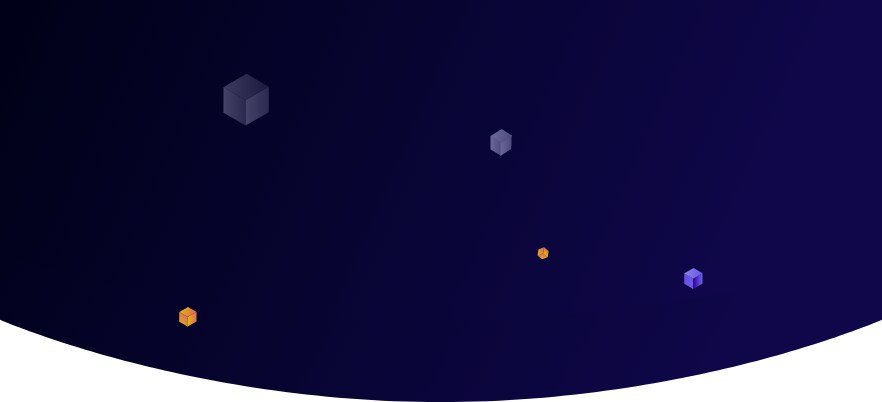
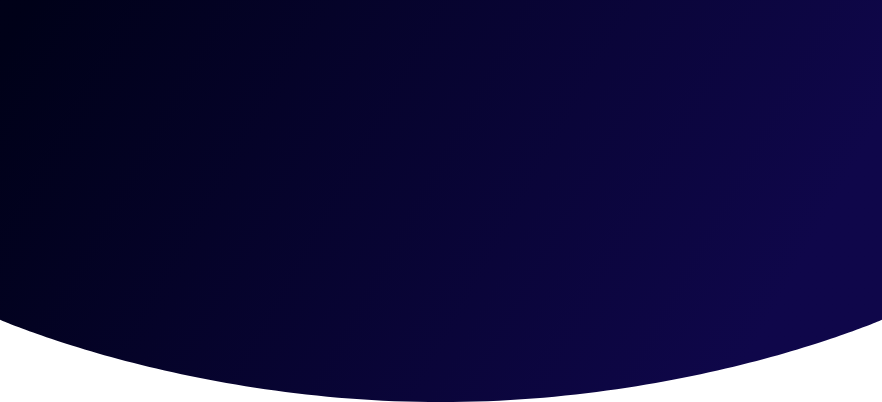
rebuild background images of header for animation in split of them, and ADD Animations

diff --git a/src/screens/Home/index.js b/src/screens/Home/index.js
@@ -8,6 +8,8 @@ import {
   TouchableOpacity,
   AsyncStorage,
   ScrollView,
+  Animated,
+  Easing,
 } from 'react-native';
 import { FlatList } from 'react-native-gesture-handler';
 import getZodiacIcon from '../../utils';
@@ -16,7 +18,7 @@ import YourDayCard from '../../components/horoskopesCard';
 
 const DAYS_HOROSKOPES = ['Yesterday', 'Today', 'Tomorrow', 'Weekly', 'Monthly', 'Yearly'];
 
-const { height } = Dimensions.get('window');
+const { height, width } = Dimensions.get('window');
 
 const styles = StyleSheet.create({
   safeAreaView: {
@@ -24,11 +26,17 @@ const styles = StyleSheet.create({
   },
   header: {
     height: height / 3,
-    justifyContent: 'center',
   },
   headerBackground: {
     width: '100%',
     height: '100%',
+  },
+  headerBackgroundStars: {
+    position: 'absolute',
+    width: '70%',
+    height: '70%',
+    alignSelf: 'center',
+    top: '10%',
   },
   title: {
     color: '#2b2172',
@@ -36,6 +44,7 @@ const styles = StyleSheet.create({
     position: 'absolute',
     fontFamily: 'Poppins-Bold',
     paddingLeft: 20,
+    top: '30%',
   },
   settingsIconContainer: {
     position: 'absolute',
@@ -55,6 +64,7 @@ const styles = StyleSheet.create({
     padding: 10,
     /* take height of sign icon and devide to 2 and minus padding (vertical center)  */
     bottom: -(height / 8) / 2 - 10,
+    transform: [{ scale: 1 }],
   },
   circle: {
     position: 'absolute',
@@ -64,13 +74,13 @@ const styles = StyleSheet.create({
     borderWidth: 1,
     borderColor: '#22163c',
     borderRadius: height / 5,
-    bottom: -(height / 5) / 2,
+    top: -(height / 5) / 10,
   },
   two: {
     width: height / 4,
     height: height / 4,
     borderRadius: height / 4,
-    bottom: -(height / 4) / 2,
+    top: -(height / 4) / 6,
   },
   signUserContainer: {
     marginTop: height / 7,
@@ -126,12 +136,104 @@ export default class Home extends Component {
         carrer: false,
         helth: false,
       },
+      headerHeightBackground: new Animated.Value(0),
+      titlePosition: new Animated.Value(0),
+      starsBackgroundHeaderPosition: new Animated.Value(50),
+      userSignSkaleAnim: new Animated.Value(0.3),
+      statAndSignNameContainer: new Animated.Value(300),
+      flatListOfHoroskopesTop: new Animated.Value(200),
+      flatListOfHoroskopesLeft: new Animated.Value(-200),
+      fadeCards: new Animated.Value(0),
+      topCards: new Animated.Value(50),
     };
   }
 
   componentWillMount = async () => {
     const sign = await AsyncStorage.getItem('sign');
     this.setState({ sign });
+  }
+
+  componentDidMount = () => {
+    this._headerBackgroundAnim();
+    this._titleAnim();
+    this._starsBackgroundHeaderAnim();
+    this._userSignAnim();
+    this._userStatsAndSignNameContainerAnim();
+    this._flatListOfHoroskopesAnim();
+    this._cardsAnim();
+  }
+
+  _headerBackgroundAnim = () => {
+    Animated.timing(this.state.headerHeightBackground, {
+      toValue: height / 3,
+      duration: 500,
+    }).start();
+  }
+
+  _titleAnim = () => {
+    Animated.timing(this.state.titlePosition, {
+      toValue: width / 4,
+      duration: 500,
+    }).start();
+  }
+
+  _starsBackgroundHeaderAnim = () => {
+    Animated.timing(this.state.starsBackgroundHeaderPosition, {
+      toValue: width / 4,
+      duration: 500,
+    }).start();
+  }
+
+  _userSignAnim = () => {
+    Animated.sequence([
+      Animated.timing(this.state.userSignSkaleAnim, {
+        toValue: 1.2,
+        duration: 250,
+      }),
+      Animated.timing(this.state.userSignSkaleAnim, {
+        toValue: 1,
+        duration: 250,
+        easing: Easing.bezier(0, 0.71, 0.67, 0.47),
+      }),
+    ]).start();
+  }
+
+  _userStatsAndSignNameContainerAnim = () => {
+    Animated.timing(this.state.statAndSignNameContainer, {
+      toValue: 0,
+      duration: 500,
+      easing: Easing.bezier(0, 0.71, 0.67, 1),
+    }).start();
+  }
+
+  _flatListOfHoroskopesAnim = () => {
+    Animated.parallel([
+      Animated.timing(this.state.flatListOfHoroskopesTop, {
+        toValue: 0,
+        duration: 400,
+        easing: Easing.bezier(0, 0.71, 0.67, 0.7),
+      }),
+      Animated.timing(this.state.flatListOfHoroskopesLeft, {
+        toValue: 0,
+        duration: 400,
+        easing: Easing.bezier(0, 0.71, 0.67, 0.7),
+      }),
+    ]).start();
+  }
+
+  _cardsAnim = () => {
+    Animated.sequence([
+      Animated.timing(this.state.fadeCards, {
+        toValue: 1,
+        duration: 150,
+        easing: Easing.bezier(0, 0.71, 1, 1),
+      }),
+      Animated.timing(this.state.topCards, {
+        toValue: 0,
+        duration: 250,
+        easing: Easing.bezier(0, 0.71, 1, 1),
+      }),
+    ]).start();
   }
 
   userSign = () => {
@@ -168,20 +270,42 @@ export default class Home extends Component {
   keyExtractor = item => `${item}`
 
   render() {
-    const { sign } = this.state;
+    const {
+      sign,
+      headerHeightBackground,
+      titlePosition,
+      starsBackgroundHeaderPosition,
+      userSignSkaleAnim,
+      statAndSignNameContainer,
+      flatListOfHoroskopesTop,
+      flatListOfHoroskopesLeft,
+      fadeCards,
+      topCards,
+    } = this.state;
     const { love, carrer, helth } = this.state.cardExpand;
+    /* turn on/off to show warnings */
+    console.disableYellowBox = true;
     return (
       <ScrollView style={styles.safeAreaView}>
         <View style={styles.header}>
-          <Image
-            style={styles.headerBackground}
+          <Animated.Image
+            style={[styles.headerBackground, { height: headerHeightBackground }]}
             resizeMode="stretch"
             source={require('../../../assets/img/bg-home-header.png')}
           />
-          <View style={styles.userSignContainer}>{this.userSign()}</View>
-          <View style={styles.circle} />
-          <View style={[styles.circle, styles.two]} />
-          <Text style={styles.title}>My Board</Text>
+          <Animated.Image
+            style={[styles.headerBackgroundStars, { right: starsBackgroundHeaderPosition }]}
+            resizeMode="stretch"
+            source={require('../../../assets/img/stars-in-header.png')}
+          />
+          <Animated.View
+            style={[styles.userSignContainer, { transform: [{ scale: userSignSkaleAnim }] }]}
+          >
+            <View style={styles.circle} />
+            <View style={[styles.circle, styles.two]} />
+            {this.userSign()}
+          </Animated.View>
+          <Animated.Text style={[styles.title, { right: titlePosition }]}>My Board</Animated.Text>
           <TouchableOpacity style={styles.settingsIconContainer}>
             <Image
               style={styles.settingsIcon}
@@ -189,22 +313,24 @@ export default class Home extends Component {
             />
           </TouchableOpacity>
         </View>
-        <View style={styles.signUserContainer}>
+        <Animated.View style={[styles.signUserContainer, { top: statAndSignNameContainer }]}>
           <Text style={styles.userSignName}>{sign}</Text>
           <View style={styles.signStatistic}>
             <SignStat rate={2} color="#f5c970" text="Love" />
             <SignStat rate={3} color="#52e092" text="Health" />
             <SignStat rate={0} color="#ff637e" text="Career" />
           </View>
-        </View>
-        <FlatList
-          style={styles.flatList}
-          keyExtractor={this.keyExtractor}
-          data={DAYS_HOROSKOPES}
-          renderItem={this.renderItem}
-          horizontal
-        />
-        <View style={styles.cards}>
+        </Animated.View>
+        <Animated.View style={{ top: flatListOfHoroskopesTop, left: flatListOfHoroskopesLeft }}>
+          <FlatList
+            style={styles.flatList}
+            keyExtractor={this.keyExtractor}
+            data={DAYS_HOROSKOPES}
+            renderItem={this.renderItem}
+            horizontal
+          />
+        </Animated.View>
+        <Animated.View style={[styles.cards, { opacity: fadeCards, top: topCards }]}>
           <YourDayCard
             title="Your Day"
             isToday
@@ -239,7 +365,7 @@ export default class Home extends Component {
             backgroundColorForSetOpacity="rgba(207, 190, 240, 0.8)"
             onExpand={() => this.expandCard('helth')}
           />
-        </View>
+        </Animated.View>
       </ScrollView>
     );
   }
